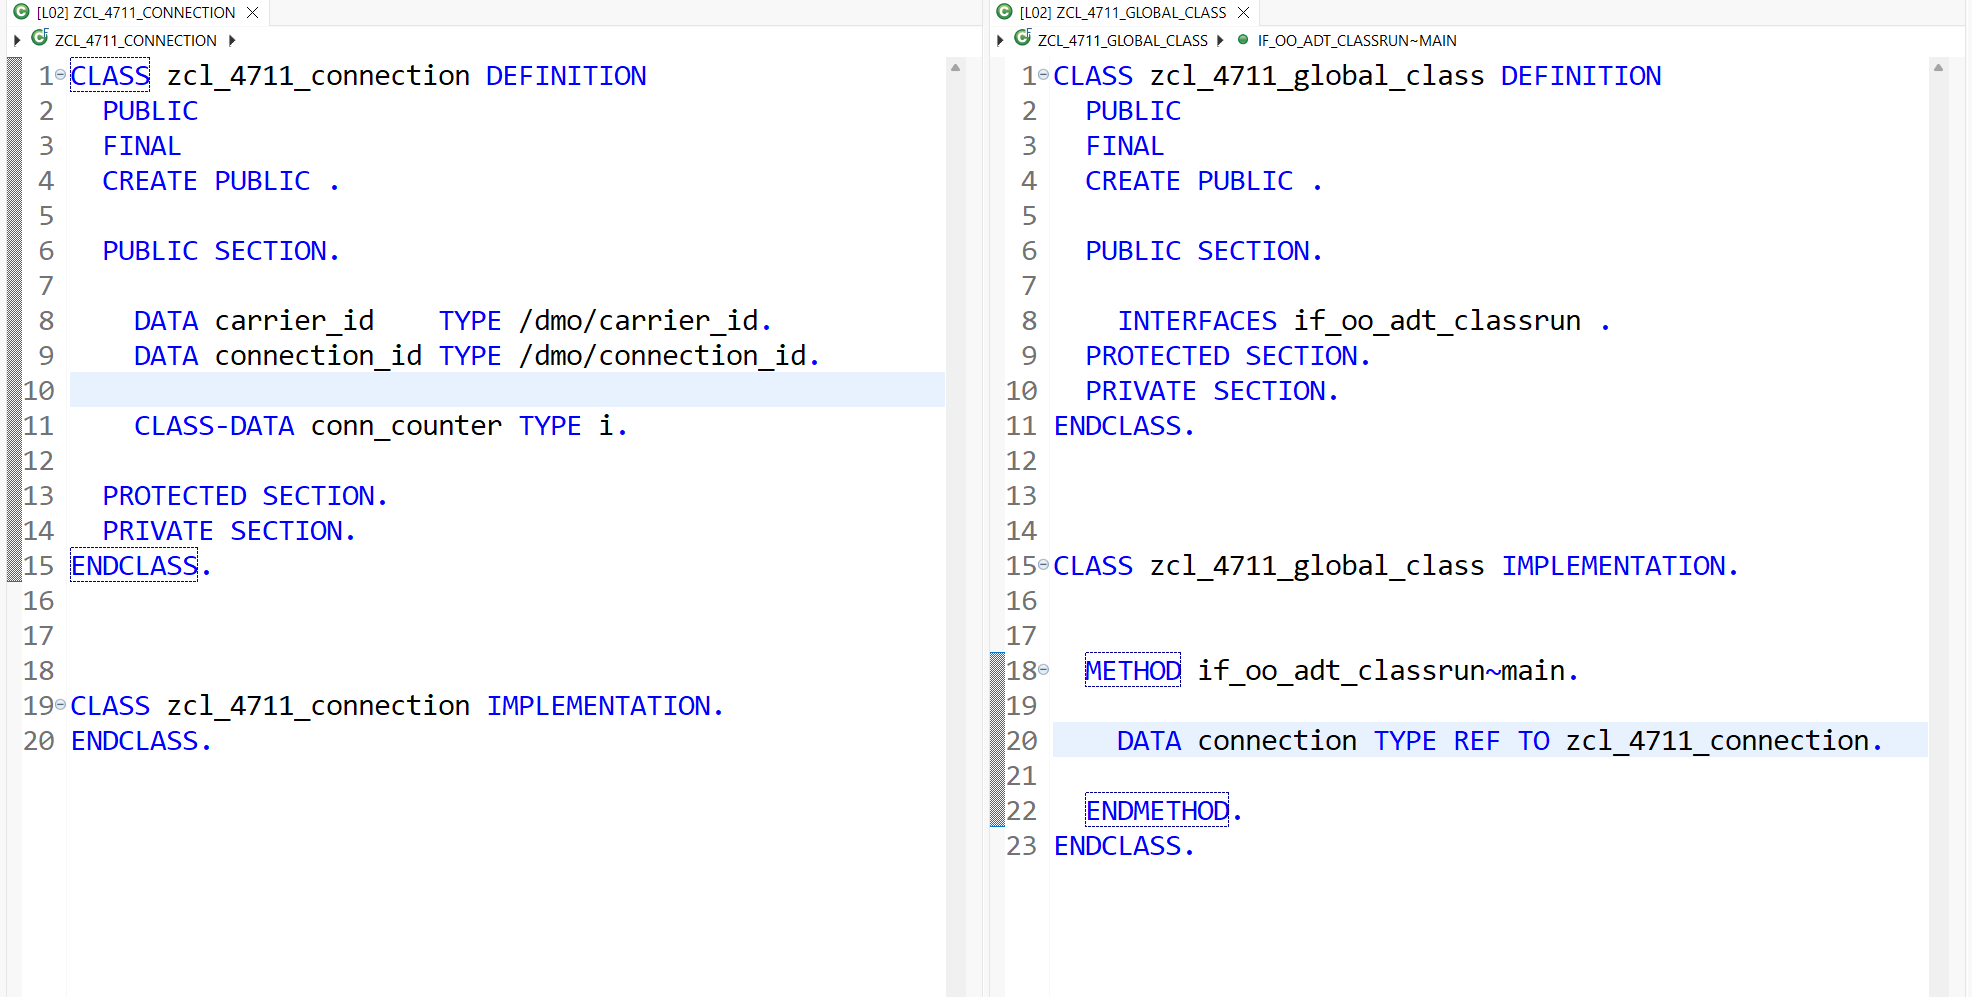
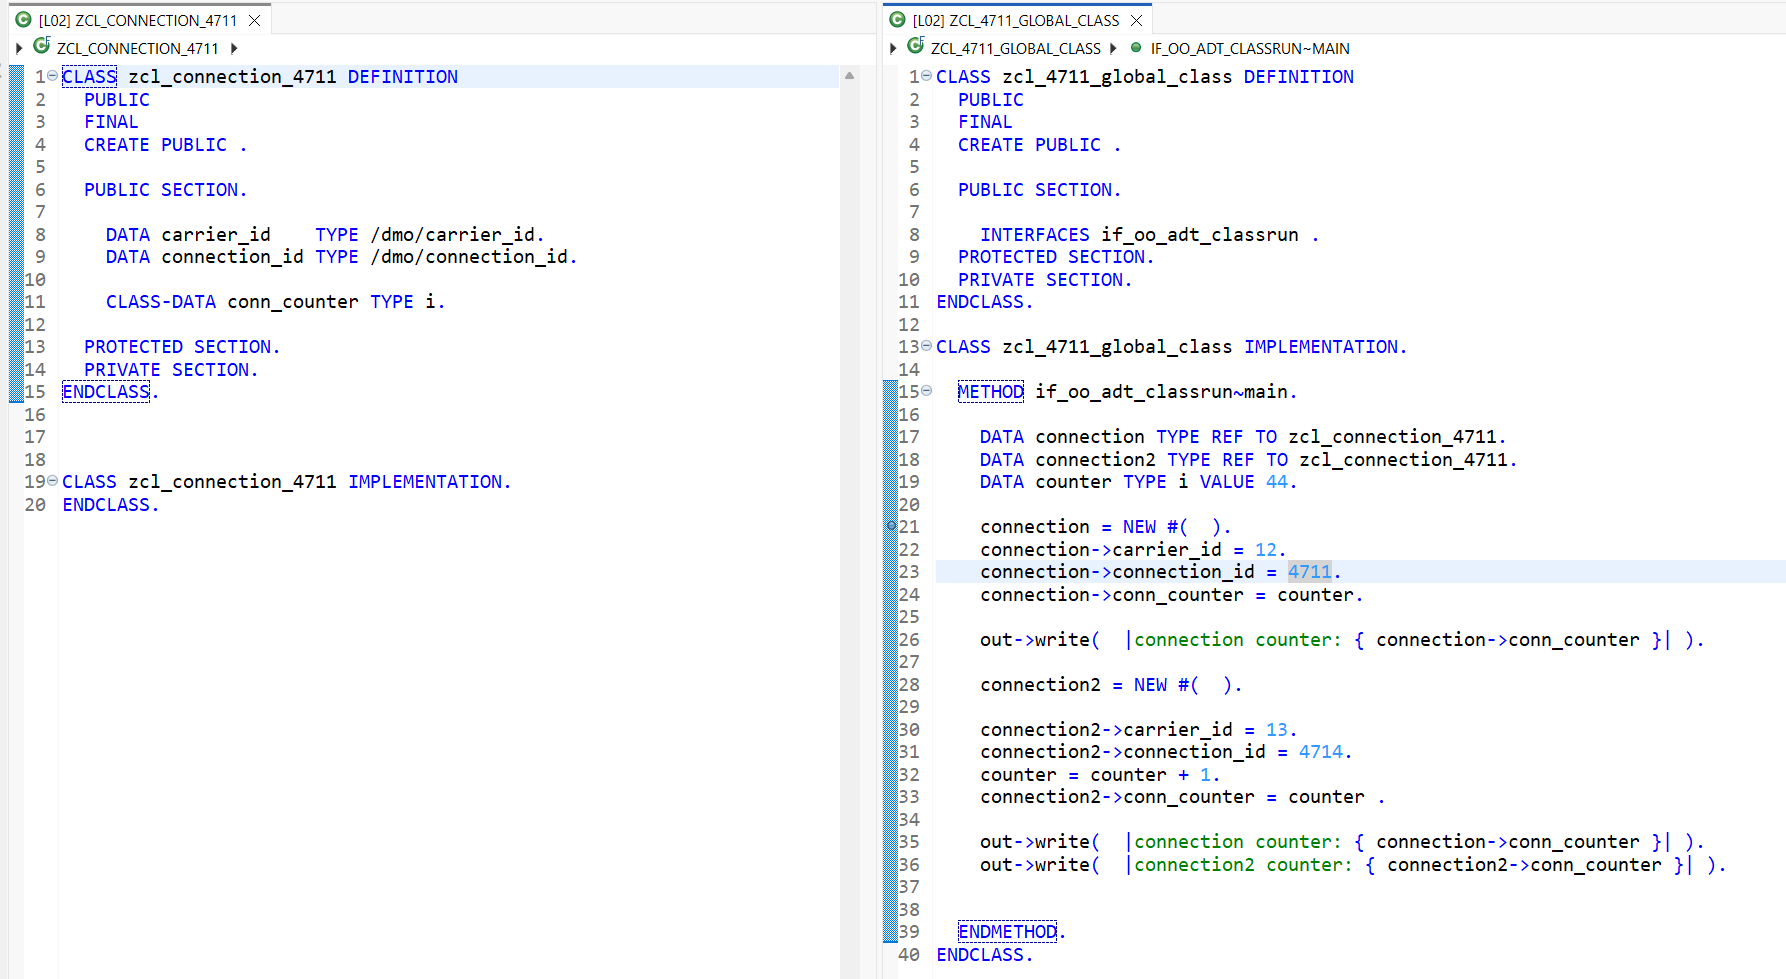
fixes

Changed region(s): [[0.4927, 0.0, 0.9546, 0.9806], [0.0, 0.0, 0.4311, 0.7661]]

diff --git a/notes/abap-basics/README.md b/notes/abap-basics/README.md
@@ -60,11 +60,11 @@ The content should be pushed regularly to this repo so that you would be able to
 
 (We work with global classes instead !)
 
-Change of **Task 1** 
+Change of **Task 1: Create a Global Class**  
 
-- Name the class to be created not `ZCL_##_LOCAL_CLASS` but `ZCL_##_GLOBAL_CLASS`  
+- Name the class to be created **not** `ZCL_##_LOCAL_CLASS` **but** `ZCL_##_GLOBAL_CLASS`  
 
-Change of **Task 2**: Define a Local Class  
+Change of **Task 2: Define a Local Class**     
 
 - Define a second **global** class **`zcl_connection_##`** (as you did in Task 1) instead of a local class **`lcl_connection`**  
 - Use code snippets provided in the script for **`lcl_connection`** and replace **`lcl_connection`** by **`zcl_connection_##`** where needed
@@ -72,7 +72,80 @@ Change of **Task 2**: Define a Local Class
   Code should look like follows   
   
   ![](images/classes_010.png)  
+  
+  The output should be
 
+  ``` 
+  connection counter: 44   
+  connection counter: 45   
+  connection2 counter: 45   
+  ```  
+
+```ABAP
+CLASS zcl_connection_## DEFINITION
+  PUBLIC
+  FINAL
+  CREATE PUBLIC .
+
+  PUBLIC SECTION.
+
+    DATA carrier_id    TYPE /dmo/carrier_id.
+    DATA connection_id TYPE /dmo/connection_id.
+
+    CLASS-DATA conn_counter TYPE i.
+
+  PROTECTED SECTION.
+  PRIVATE SECTION.
+ENDCLASS.
+
+
+
+CLASS zcl_connection_## IMPLEMENTATION.
+ENDCLASS.
+```
+
+```ABAP
+CLASS zcl_##_global_class DEFINITION
+  PUBLIC
+  FINAL
+  CREATE PUBLIC .
+
+  PUBLIC SECTION.
+
+    INTERFACES if_oo_adt_classrun .
+  PROTECTED SECTION.
+  PRIVATE SECTION.
+ENDCLASS.
+
+CLASS zcl_##_global_class IMPLEMENTATION.
+
+  METHOD if_oo_adt_classrun~main.
+
+    DATA connection TYPE REF TO zcl_connection_##.
+    DATA connection2 TYPE REF TO zcl_connection_##.
+    DATA counter TYPE i VALUE 44.
+
+    connection = NEW #(  ).
+    connection->carrier_id = 12.
+    connection->connection_id = 4711.
+    connection->conn_counter = counter.
+
+    out->write(  |connection counter: { connection->conn_counter }| ).
+
+    connection2 = NEW #(  ).
+
+    connection2->carrier_id = 13.
+    connection2->connection_id = 4714.
+    counter = counter + 1.
+    connection2->conn_counter = counter .
+
+    out->write(  |connection counter: { connection->conn_counter }| ).
+    out->write(  |connection2 counter: { connection2->conn_counter }| ).
+
+
+  ENDMETHOD.
+ENDCLASS.
+```
 
 ### Lesson - Creating Instances of a Class
 
